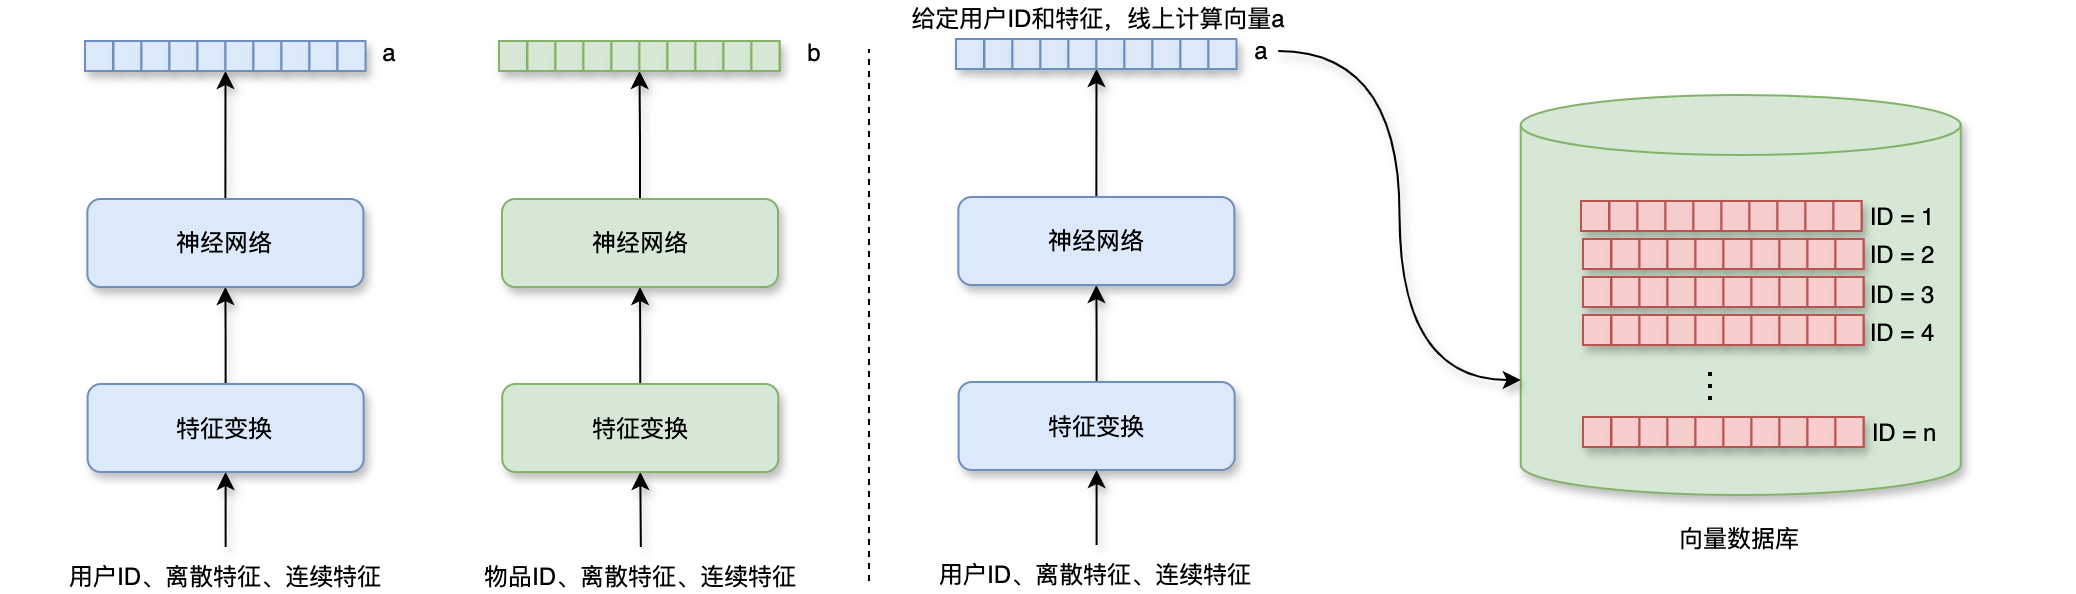
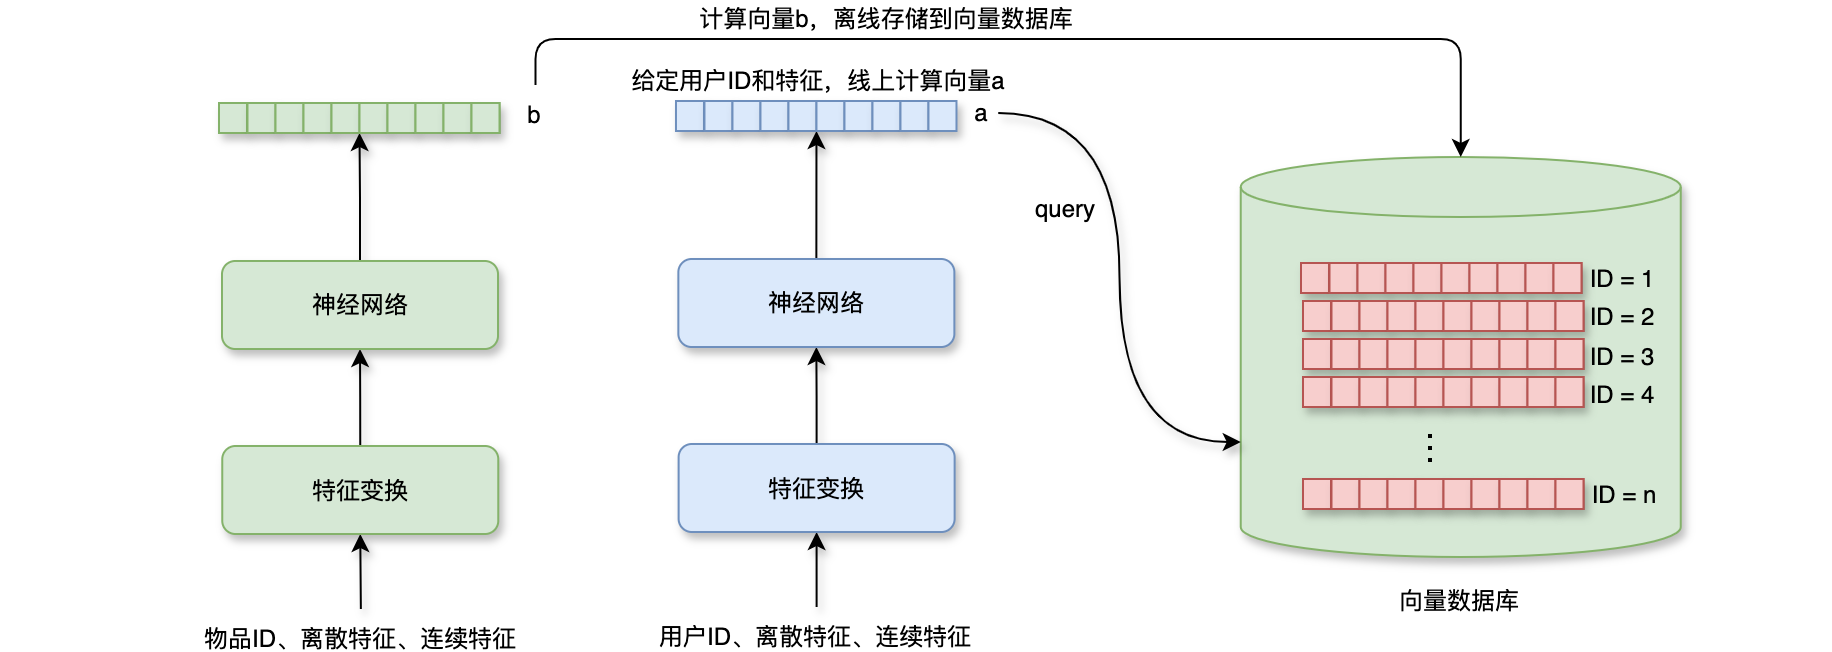
ai

diff --git a/source/_posts/artificial-intelligence/ML13_theory_study.md b/source/_posts/artificial-intelligence/ML13_theory_study.md
@@ -30,5 +30,5 @@ mathjax:
 - **有曝光没点击**：看起来可以作为负样本，但其实不能，只要用了这样的负样本，双塔模型的效果肯定会变差，一个物品可以通过精排模型的甄别并曝光给用户，说明物品已经非常匹配用户的兴趣点，每次给用户展示几十个物品，用户不可能每个都点击，没有点击不代表不感兴趣，所以不应该把**有曝光没点击**的物品作为召回的负样本，他只适合训练排序模型，不适合训练召回模型。
 
 如下图所示，这是训练好的两个塔，它们分别提取用户、物品特征，在开始双塔训练之后，线上服务之前，先用右边物品的塔提取物品的特征，把物品特征向量记作{% mathjax %}\vec{b}{% endmathjax %}，这里有多少个物品就有多少个向量（几亿），把<特征向量{% mathjax %}\vec{b}{% endmathjax %}, 物品`ID`>保存到向量数据库，向量数据库存储物品向量和物品`ID`的二元组，用作最近邻查找，左边的用户塔不要事先计算并存储向量，而是当用户线上发起推荐请求的时候，调用神经网络在线上计算一个向量{% mathjax %}\vec{a}{% endmathjax %}，然后把向量作为query去数据库中做检索，查找最近邻，也就是跟向量{% mathjax %}\vec{a}{% endmathjax %}相似度最高的{% mathjax %}k{% endmathjax %}个红色向量，每个红色向量对应一个物品，`k`-近邻查找一共召回了{% mathjax %}k{% endmathjax %}个物品，作为这条召回通道的结果返回。
-{% asset_img ml_1.png "左边是训练好的双塔模型，右边的线上召回流程" %}
+{% asset_img ml_1.png "左边是物品向量离线存储，右边的线上召回" %}
 
